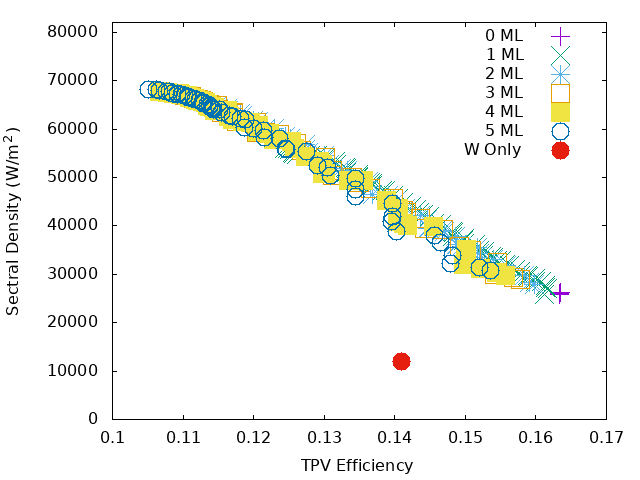
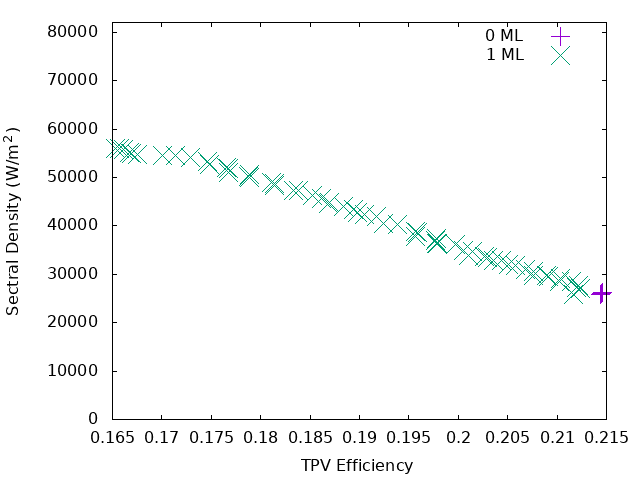
Updated multilayer

diff --git a/MultiLayer/Scan.c b/MultiLayer/Scan.c
@@ -698,7 +698,8 @@ double SpectralEfficiency(double *emissivity, int N, double *lambda, double lbg,
     double FF = 0.55; // Seems to be maximum possible value of InGaAsSb cells at 80 C
     double F = 0.84;  // view factor for planar emitter separated from PV by 1 mm gap
     double EQE = 0.82;  // Can assume that InGaAsSb response is 0.82 * Step Function... 
-
+    double red_v;
+    double beta = 0.96;
     sumD = 0.;
     sumN = 0.;
     QE = 0.;
@@ -724,12 +725,26 @@ double SpectralEfficiency(double *emissivity, int N, double *lambda, double lbg,
         QE += (l/(h*c))* em * rho_Em * dlambda;  
         // Photon number flux from cell
 	QC += (l/(h*c))* rho_Cell * dlambda;
-	// contribution to J_sc
-	Jsc += q * F * (l/(h*c)) * em * rho_Em * EQE * dlambda;
+	// contribution to J_sc - this is a carrier flux density, not a current density... no charge dimension
+        // Use with definition of Voc that is potential energy/carrier (modified) formula from Chan et al, Solar Energy Materials and Solar Cells, 94 (2010) 509-514
+	Jsc += F * (l/(h*c)) * em * rho_Em * EQE * dlambda;
+	// The below is actually a current density, because it has charge... use with true open circuit voltage with has dimensions energy/charge 
+	//Jsc += q * F * (l/(h*c)) * em * rho_Em * EQE * dlambda;
       }
     }
 
-    Voc =((kb*T_cell)/q)*log(f*QE/QC);
+    // This Voc is not a true electrical voltage, it is has dimensions of potential energy/carrier... should be used
+    // with the form of J_sc that quantifies carrier flux density... (modified) formula from Rephaeli and Fan, Optics Express, 17 (2009) 15145
+    Voc = kb*T_cell * log(f*QE/QC);
+    // The below is actually a voltage, energy/charge
+    //Voc =((kb*T_cell)/q)*log(f*QE/QC);
+
+    // To compute FF using expression in Qiu et al's 2006 Solar Energy Materials and Solar Cells (vol 90, pg 68-81), will want
+    // to use Voc that is energy/carrier and Jsc that is a carrier flux densityl... if you are using Voc as a potential and Jsc as
+    // a current density, the formula from Qiu et al for FF will not be dimensionless...
+    red_v = Voc/(kb*T_cell);
+    FF = beta * (red_v - log(red_v + 0.72))/(red_v + 1);
+
     *eta_tpv = (Voc * Jsc * FF)/sumD;
     *P = sumN;
     
